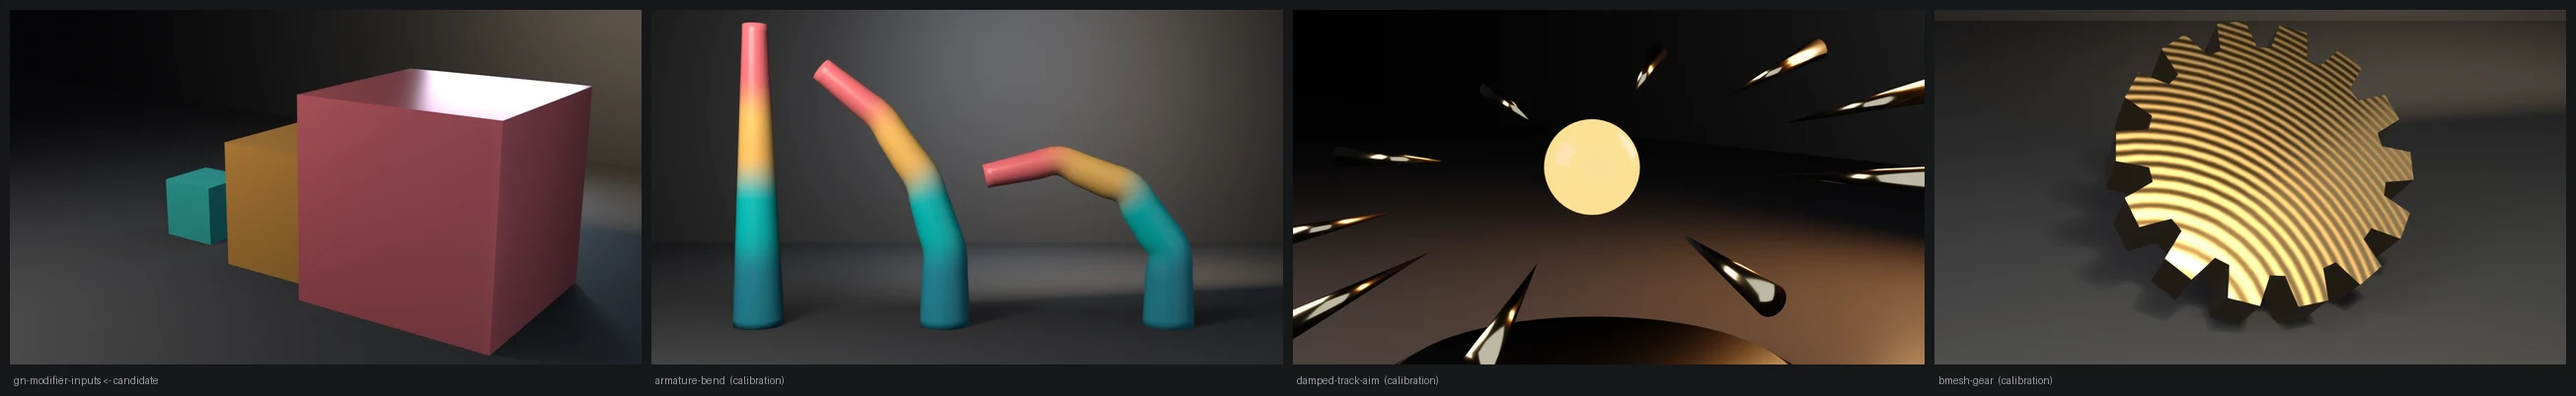
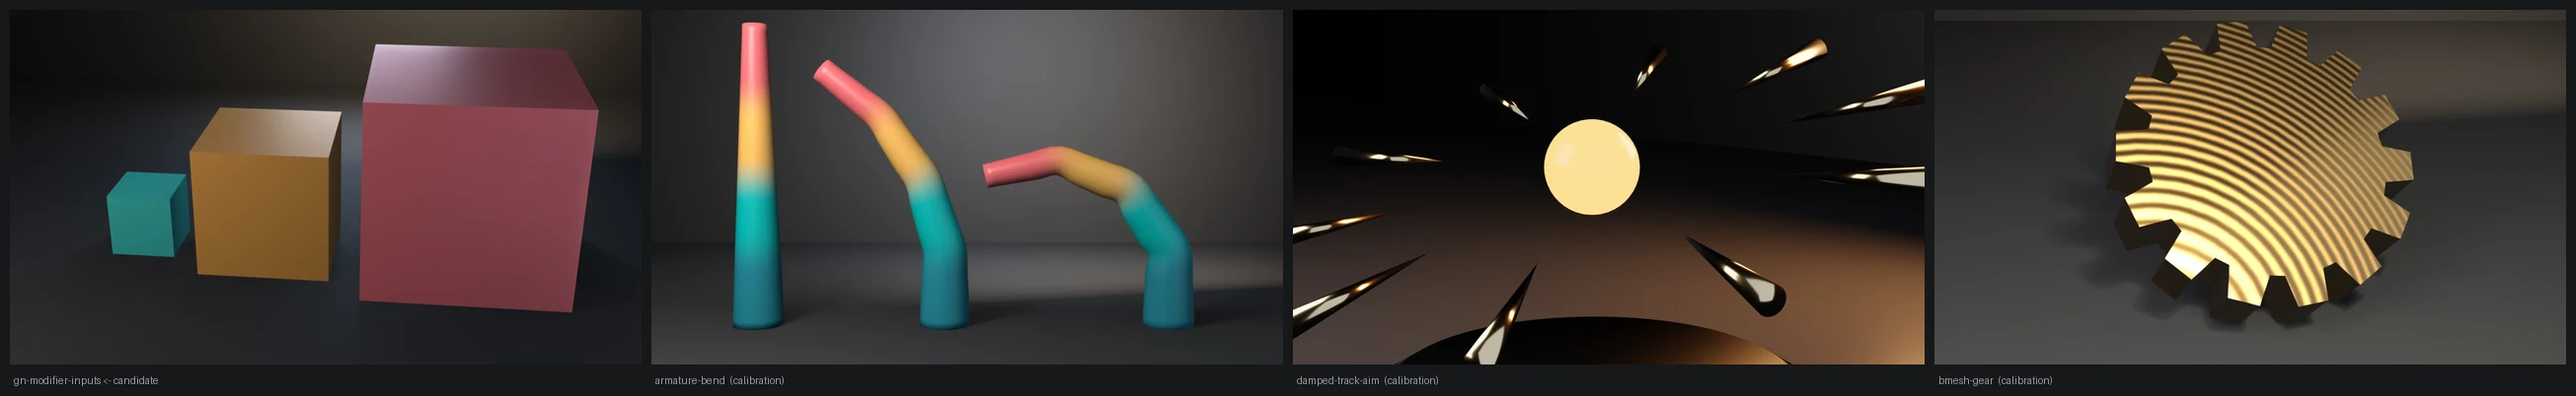
fix: gn-modifier-inputs presentation, cubes no longer interpenetrate
Layout and render only: XS overlapped the 2 m and 3 m cubes by 0.2 m; they
now stand 0.5 m apart. Frontal camera, duller finish. The check reads only
Z extents; contract and exit codes unchanged on 4.5.11, 5.1.2 and 5.2.1.
Also regenerates the gallery index for all four items.

Changed region(s): [[0.0, 0.0, 0.2483, 0.9254]]

diff --git a/docs/gallery/gn-modifier-inputs/index.html b/docs/gallery/gn-modifier-inputs/index.html
@@ -16,13 +16,13 @@
   <meta property="og:image" content="https://tmhsdigital.github.io/Blender-Developer-Tools/gallery/assets/gn-modifier-inputs-hero.webp" />
   <meta property="og:image:width" content="1280" />
   <meta property="og:image:height" content="720" />
-  <meta property="og:image:alt" content="Three boxes stepping up in size from a small teal cube to an orange block to a large red block." />
+  <meta property="og:image:alt" content="Three separate cubes stepping up in size from left to right: a small teal cube, an orange block and a large red block." />
   <meta property="og:site_name" content="Blender Developer Tools" />
   <meta name="twitter:card" content="summary_large_image" />
   <meta name="twitter:title" content="gn-modifier-inputs — Examples — Blender Developer Tools" />
   <meta name="twitter:description" content="Per-modifier Geometry Nodes Float inputs on a shared tree — 4.5/5.1 write mod[identifier], 5.2 writes mod.properties.inputs.Socket_1.value." />
   <meta name="twitter:image" content="https://tmhsdigital.github.io/Blender-Developer-Tools/gallery/assets/gn-modifier-inputs-hero.webp" />
-  <meta name="twitter:image:alt" content="Three boxes stepping up in size from a small teal cube to an orange block to a large red block." />
+  <meta name="twitter:image:alt" content="Three separate cubes stepping up in size from left to right: a small teal cube, an orange block and a large red block." />
   <style>
     /* fonts are deployed by the landing build (docs/fonts/) */
     @font-face { font-family: 'Barlow Condensed'; font-weight: 600; font-display: swap;
@@ -268,8 +268,8 @@
     <p>Per-modifier Geometry Nodes Float inputs on a shared tree — 4.5/5.1 write mod[identifier], 5.2 writes mod.properties.inputs.Socket_1.value.</p>
   </header>
   <main id="main">
-    <button class="detail-hero" id="heroZoom" type="button" aria-label="View full size: Three boxes stepping up in size from a small teal cube to an orange block to a large red block.">
-      <img src="../assets/gn-modifier-inputs-hero.webp" alt="Three boxes stepping up in size from a small teal cube to an orange block to a large red block." width="1280" height="720" />
+    <button class="detail-hero" id="heroZoom" type="button" aria-label="View full size: Three separate cubes stepping up in size from left to right: a small teal cube, an orange block and a large red block.">
+      <img src="../assets/gn-modifier-inputs-hero.webp" alt="Three separate cubes stepping up in size from left to right: a small teal cube, an orange block and a large red block." width="1280" height="720" />
     </button>
     <p class="zoom-hint">Rendered headless by the example itself — click to zoom.</p>
     <div class="callout"><span class="tag">witnesses</span> The 5.1 dict form raises TypeError on 5.2 rather than silently no-opping; RNA properties are AttributeError on 4.5. Readback and evaluated Z-extent match written scales 1/2/3.</div>
@@ -281,6 +281,7 @@
 <p>A runnable example that attaches one Geometry Nodes tree to three cubes and writes a per-modifier Float <strong>Scale</strong> input through the version-appropriate API. The tree scales a 1 m cube by that value and lifts it onto the floor. Evaluated Z-extent must match the written scale (1 / 2 / 3). That is the closed form: if the write did not land, the three cubes collapse to the socket default and the extents are no longer distinct.</p>
 <p><strong>What it witnesses:</strong> Blender 5.2 removed ID-property assignment on <code>NodesModifier</code>. <code>mod[&quot;Socket_1&quot;] = 2.0</code> raises <code>TypeError</code> rather than silently no-opping. 4.5 LTS and 5.1 still require that dict form; <code>mod.properties</code> does not exist there (<code>AttributeError</code>). 5.2+ writes <code>mod.properties.inputs.Socket_1.value</code>. After the write, the depsgraph must be updated or <code>evaluated_get</code> still sees the previous scale.</p>
 <p>Follows <a href="https://github.com/TMHSDigital/Blender-Developer-Tools/tree/main/skills/geometry-nodes-python/SKILL.md"><code>geometry-nodes-python</code></a>.</p>
+<p>Staging: the carriers now stand 0.5 m apart (<code>XS</code>). The old spacing overlapped the 2 m and 3 m cubes by 0.2 m. The check reads only each cube&#x27;s evaluated Z extent and zmin, never X, so this is layout only. The camera looks from the front, so small to large reads left to right, and a duller finish keeps the tops from blowing out.</p>
 <h2>Run</h2>
 <pre><code># Cheap correctness check (no render) — the CI check:
 blender --background --python gn_modifier_inputs.py --
@@ -346,8 +347,10 @@ sys.path.insert(
 
 CUBE_SIZE = <span class="n">1.0</span>
 SCALES = (<span class="n">1.0</span>, <span class="n">2.0</span>, <span class="n">3.0</span>)
-<span class="c"># Half-widths 0.5 / 1.0 / 1.5; keep a clear gap, keep the 3 m cube off the right edge.</span>
-XS = (-<span class="n">2.2</span>, <span class="n">0.15</span>, <span class="n">2.45</span>)
+<span class="c"># Half-widths 0.5 / 1.0 / 1.5, with 0.5 m between neighbours. The old</span>
+<span class="c"># (-2.2, 0.15, 2.45) overlapped the 2 m and 3 m cubes by 0.2 m. The check</span>
+<span class="c"># reads only Z extents, so the layout is free.</span>
+XS = (-<span class="n">2.6</span>, -<span class="n">0.6</span>, <span class="n">2.4</span>)
 COLORS = (
     (<span class="n">0.05</span>, <span class="n">0.62</span>, <span class="n">0.58</span>, <span class="n">1.0</span>),  <span class="c"># teal</span>
     (<span class="n">0.82</span>, <span class="n">0.38</span>, <span class="n">0.08</span>, <span class="n">1.0</span>),  <span class="c"># copper</span>
@@ -393,8 +396,8 @@ INPUT_NAME = <span class="s">&quot;Scale&quot;</span>
     mat.use_nodes = <span class="k">True</span>
     bsdf = mat.node_tree.nodes[<span class="s">&quot;Principled BSDF&quot;</span>]
     bsdf.inputs[<span class="s">&quot;Base Color&quot;</span>].default_value = color
-    bsdf.inputs[<span class="s">&quot;Roughness&quot;</span>].default_value = <span class="n">0.28</span>
-    bsdf.inputs[<span class="s">&quot;Metallic&quot;</span>].default_value = <span class="n">0.35</span>
+    bsdf.inputs[<span class="s">&quot;Roughness&quot;</span>].default_value = <span class="n">0.45</span>
+    bsdf.inputs[<span class="s">&quot;Metallic&quot;</span>].default_value = <span class="n">0.1</span>
     <span class="k">return</span> mat
 
 
@@ -603,7 +606,7 @@ INPUT_NAME = <span class="s">&quot;Scale&quot;</span>
     scene.world = world
 
     aim = bpy.data.objects.new(<span class="s">&quot;Aim&quot;</span>, <span class="k">None</span>)
-    aim.location = (<span class="n">0.35</span>, <span class="n">0.0</span>, <span class="n">1.25</span>)
+    aim.location = (<span class="n">0.25</span>, <span class="n">0.0</span>, <span class="n">1.1</span>)
     scene.collection.objects.link(aim)
 
     <span class="k">def</span> light(name, loc, energy, size, col):
@@ -619,7 +622,7 @@ INPUT_NAME = <span class="s">&quot;Scale&quot;</span>
         lc.track_axis = <span class="s">&quot;TRACK_NEGATIVE_Z&quot;</span>
         lc.up_axis = <span class="s">&quot;UP_Y&quot;</span>
 
-    light(<span class="s">&quot;Key&quot;</span>, (-<span class="n">3.8</span>, -<span class="n">5.0</span>, <span class="n">6.2</span>), <span class="n">560.0</span>, <span class="n">5.0</span>, (<span class="n">1.0</span>, <span class="n">0.96</span>, <span class="n">0.9</span>))
+    light(<span class="s">&quot;Key&quot;</span>, (-<span class="n">5.5</span>, -<span class="n">6.0</span>, <span class="n">5.2</span>), <span class="n">380.0</span>, <span class="n">6.0</span>, (<span class="n">1.0</span>, <span class="n">0.96</span>, <span class="n">0.9</span>))
     light(<span class="s">&quot;Fill&quot;</span>, (<span class="n">5.4</span>, -<span class="n">3.2</span>, <span class="n">2.4</span>), <span class="n">110.0</span>, <span class="n">8.0</span>, (<span class="n">0.75</span>, <span class="n">0.85</span>, <span class="n">1.0</span>))
     light(<span class="s">&quot;Rim&quot;</span>, (<span class="n">0.4</span>, <span class="n">6.4</span>, <span class="n">3.8</span>), <span class="n">280.0</span>, <span class="n">3.5</span>, (<span class="n">0.6</span>, <span class="n">0.78</span>, <span class="n">1.0</span>))
     wedge = bpy.data.lights.new(<span class="s">&quot;Wedge&quot;</span>, <span class="s">&quot;AREA&quot;</span>)
@@ -634,7 +637,7 @@ INPUT_NAME = <span class="s">&quot;Scale&quot;</span>
     cam_data = bpy.data.cameras.new(<span class="s">&quot;Cam&quot;</span>)
     cam_data.lens = <span class="n">50.0</span>
     cam = bpy.data.objects.new(<span class="s">&quot;Cam&quot;</span>, cam_data)
-    cam.location = (<span class="n">8.1</span>, -<span class="n">10.8</span>, <span class="n">5.05</span>)
+    cam.location = (<span class="n">1.6</span>, -<span class="n">12.4</span>, <span class="n">6.6</span>)
     scene.collection.objects.link(cam)
     scene.camera = cam
     track = cam.constraints.new(<span class="s">&quot;TRACK_TO&quot;</span>)
@@ -718,7 +721,7 @@ INPUT_NAME = <span class="s">&quot;Scale&quot;</span>
   </main>
   <dialog class="lightbox" id="lightbox" aria-label="Full-size render">
     <button class="lightbox-close" type="button" autofocus>Close</button>
-    <img src="../assets/gn-modifier-inputs-hero.webp" alt="Three boxes stepping up in size from a small teal cube to an orange block to a large red block." />
+    <img src="../assets/gn-modifier-inputs-hero.webp" alt="Three separate cubes stepping up in size from left to right: a small teal cube, an orange block and a large red block." />
   </dialog>
   <footer>
     <div class="statusbar">

diff --git a/docs/gallery/index.html b/docs/gallery/index.html
@@ -453,7 +453,7 @@
       </article>
       <article class="card" data-tags="geometry-nodes modifiers">
         <a class="card-media" href="gn-modifier-inputs/" tabindex="-1" aria-hidden="true">
-          <img src="assets/gn-modifier-inputs-hero.webp" alt="Three boxes stepping up in size from a small teal cube to an orange block to a large red block." loading="lazy" decoding="async" />
+          <img src="assets/gn-modifier-inputs-hero.webp" alt="Three separate cubes stepping up in size from left to right: a small teal cube, an orange block and a large red block." loading="lazy" decoding="async" />
         </a>
         <div class="card-body">
           <h2><a href="gn-modifier-inputs/">gn-modifier-inputs</a></h2>
@@ -860,7 +860,7 @@
       </article>
       <article class="card" data-tags="depsgraph export">
         <a class="card-media" href="usd-export-evaluation-mode/" tabindex="-1" aria-hidden="true">
-          <img src="assets/usd-export-evaluation-mode-hero.webp" alt="Two grey spheres: a coarse, flat-shaded one on the left and a smooth, subdivided one on the right." loading="lazy" decoding="async" />
+          <img src="assets/usd-export-evaluation-mode-hero.webp" alt="Two steel balls resting on the floor: a coarse, flat-shaded one on the left and a smooth, subdivided one on the right." loading="lazy" decoding="async" />
         </a>
         <div class="card-body">
           <h2><a href="usd-export-evaluation-mode/">usd-export-evaluation-mode</a></h2>
@@ -937,12 +937,12 @@
       </article>
       <article class="card" data-tags="mesh export showcase">
         <a class="card-media" href="campfire/" tabindex="-1" aria-hidden="true">
-          <img src="assets/campfire-hero.webp" alt="A campfire of crossed logs in a teepee inside a ring of grey stone blocks." loading="lazy" decoding="async" />
+          <img src="assets/campfire-hero.webp" alt="A campfire of crossed logs in a teepee, embers in the ash, inside a two-course ring of rounded grey fieldstones." loading="lazy" decoding="async" />
         </a>
         <div class="card-body">
           <h2><a href="campfire/">campfire</a></h2>
           <p class="teaches">A procedural campfire through UVs, bake, LOD, collider, and Unity glTF, asserting recomputed budgets rather than an API contract.</p>
-          <p class="witnesses"><span class="tag">witnesses</span> Recomputed: 2200 tris, three materials with 216 wood, 48 ash and 1304 stone faces, UVs in 0..1 with zero AABB overlap, outer AABB 0.807×0.808×0.404 m, LOD ratios in band, convex collider 198 tris, hygiene 0, 14 grounded bottom stones, teepee kiss 0.00001 m, course seat 0, non-empty glTF. --skip-decimate exits 9; --stray-vert 15; --lift-z/--short-stones 16; --float-logs 17; --gap-courses 18.</p>
+          <p class="witnesses"><span class="tag">witnesses</span> Recomputed: 2760 tris, three materials with 216 wood, 48 ash and 1416 stone faces, UVs in 0..1 with zero AABB overlap, outer AABB 0.802×0.802×0.404 m, LOD ratios in band, convex collider 162 tris, hygiene 0, 14 grounded bottom stones, teepee kiss 0.00034 m, course seat 0, stone variation 0.01269 m, non-empty glTF. --skip-decimate exits 9; --stray-vert 15; --lift-z/--short-stones 16; --float-logs 17; --gap-courses 18; --uniform-stones 20.</p>
           <a class="card-link" href="campfire/">View showcase piece<span class="sr-only"> campfire</span> <span aria-hidden="true">&rarr;</span></a>
         </div>
       </article>
@@ -1157,12 +1157,12 @@
       </article>
       <article class="card" data-tags="mesh export showcase">
         <a class="card-media" href="iron-cauldron/" tabindex="-1" aria-hidden="true">
-          <img src="assets/iron-cauldron-hero.webp" alt="A black iron cauldron hanging from a tripod of wooden poles." loading="lazy" decoding="async" />
+          <img src="assets/iron-cauldron-hero.webp" alt="A round-bellied black iron cauldron hanging by its bail from a tripod of wooden poles." loading="lazy" decoding="async" />
         </a>
         <div class="card-body">
           <h2><a href="iron-cauldron/">iron-cauldron</a></h2>
-          <p class="teaches">A procedural hanging iron cauldron with a bulged open pot, bail, and timber tripod through UVs, bake, LOD, collider, and Unity glTF, asserting recomputed budgets rather than an API contract.</p>
-          <p class="witnesses"><span class="tag">witnesses</span> Recomputed: 3664 tris, two materials with 224 wood and 1768 metal faces, UVs in 0..1 with zero AABB overlap, outer AABB 0.987×0.961×0.860 m, pot–leg clearance 0.046 m, 3 coaxial ferrules at zmin 0, ferrule bite −0.00185 m, hook-bail join 0, mesh hygiene all zero, LOD ratios in band, convex collider 250 tris, non-empty glTF. --skip-decimate exits 9; --stray-vert 15; --lift-z/--short-legs 16; --float-hook 17; --pipe-ferrule 18.</p>
+          <p class="teaches">A procedural hanging iron cauldron with a round-bellied pot, a bail threaded through flat ear rings, and a timber tripod through UVs, bake, LOD, collider, and Unity glTF, asserting recomputed budgets rather than an API contract.</p>
+          <p class="witnesses"><span class="tag">witnesses</span> Recomputed: 3664 tris, two materials with 224 wood and 1768 metal faces, UVs in 0..1 with zero AABB overlap, outer AABB 0.987×0.961×0.860 m, pot–leg clearance 0.053 m, pot base radius 0.075 m, 3 coaxial ferrules at zmin 0, ferrule bite −0.00185 m, hook-bail join 0, bail threads both ear rings, mesh hygiene all zero, LOD ratios in band, convex collider 246 tris, non-empty glTF. --skip-decimate exits 9; --stray-vert 15; --lift-z/--short-legs 16; --float-hook/--edge-on-ears 17; --pipe-ferrule 18; --pointed-pot 19.</p>
           <a class="card-link" href="iron-cauldron/">View showcase piece<span class="sr-only"> iron-cauldron</span> <span aria-hidden="true">&rarr;</span></a>
         </div>
       </article>

diff --git a/examples/gn-modifier-inputs/gn_modifier_inputs.py b/examples/gn-modifier-inputs/gn_modifier_inputs.py
@@ -36,8 +36,10 @@ import gallery_framing  # noqa: E402
 
 CUBE_SIZE = 1.0
 SCALES = (1.0, 2.0, 3.0)
-# Half-widths 0.5 / 1.0 / 1.5; keep a clear gap, keep the 3 m cube off the right edge.
-XS = (-2.2, 0.15, 2.45)
+# Half-widths 0.5 / 1.0 / 1.5, with 0.5 m between neighbours. The old
+# (-2.2, 0.15, 2.45) overlapped the 2 m and 3 m cubes by 0.2 m. The check
+# reads only Z extents, so the layout is free.
+XS = (-2.6, -0.6, 2.4)
 COLORS = (
     (0.05, 0.62, 0.58, 1.0),  # teal
     (0.82, 0.38, 0.08, 1.0),  # copper
@@ -83,8 +85,8 @@ def make_material(name, color):
     mat.use_nodes = True
     bsdf = mat.node_tree.nodes["Principled BSDF"]
     bsdf.inputs["Base Color"].default_value = color
-    bsdf.inputs["Roughness"].default_value = 0.28
-    bsdf.inputs["Metallic"].default_value = 0.35
+    bsdf.inputs["Roughness"].default_value = 0.45
+    bsdf.inputs["Metallic"].default_value = 0.1
     return mat
 
 
@@ -293,7 +295,7 @@ def render_still(objs, path, engine):
     scene.world = world
 
     aim = bpy.data.objects.new("Aim", None)
-    aim.location = (0.35, 0.0, 1.25)
+    aim.location = (0.25, 0.0, 1.1)
     scene.collection.objects.link(aim)
 
     def light(name, loc, energy, size, col):
@@ -309,7 +311,7 @@ def render_still(objs, path, engine):
         lc.track_axis = "TRACK_NEGATIVE_Z"
         lc.up_axis = "UP_Y"
 
-    light("Key", (-3.8, -5.0, 6.2), 560.0, 5.0, (1.0, 0.96, 0.9))
+    light("Key", (-5.5, -6.0, 5.2), 380.0, 6.0, (1.0, 0.96, 0.9))
     light("Fill", (5.4, -3.2, 2.4), 110.0, 8.0, (0.75, 0.85, 1.0))
     light("Rim", (0.4, 6.4, 3.8), 280.0, 3.5, (0.6, 0.78, 1.0))
     wedge = bpy.data.lights.new("Wedge", "AREA")
@@ -324,7 +326,7 @@ def render_still(objs, path, engine):
     cam_data = bpy.data.cameras.new("Cam")
     cam_data.lens = 50.0
     cam = bpy.data.objects.new("Cam", cam_data)
-    cam.location = (8.1, -10.8, 5.05)
+    cam.location = (1.6, -12.4, 6.6)
     scene.collection.objects.link(cam)
     scene.camera = cam
     track = cam.constraints.new("TRACK_TO")

diff --git a/README.md b/README.md
@@ -562,7 +562,7 @@ verts = 72, faces = 54, and `Set Material` carries the lime accent.
 </tr>
 <tr>
 <td width="46%" valign="middle">
-<a href="examples/gn-modifier-inputs/"><img src="examples/gn-modifier-inputs/preview.webp" alt="GN modifier inputs: three cubes in teal, copper, and coral scaled to 1, 2, and 3 meters by a shared Geometry Nodes tree, proving per-modifier Scale writes land on 5.2 RNA and on 4.5 dict assignment" /></a>
+<a href="examples/gn-modifier-inputs/"><img src="examples/gn-modifier-inputs/preview.webp" alt="GN modifier inputs: three separate cubes in teal, copper, and coral scaled to 1, 2, and 3 meters by a shared Geometry Nodes tree, proving per-modifier Scale writes land on 5.2 RNA and on 4.5 dict assignment" /></a>
 </td>
 <td valign="middle">
 

diff --git a/examples/gn-modifier-inputs/README.md b/examples/gn-modifier-inputs/README.md
@@ -16,6 +16,12 @@ must be updated or `evaluated_get` still sees the previous scale.
 
 Follows [`geometry-nodes-python`](../../skills/geometry-nodes-python/SKILL.md).
 
+Staging: the carriers now stand 0.5 m apart (`XS`). The old spacing
+overlapped the 2 m and 3 m cubes by 0.2 m. The check reads only each
+cube's evaluated Z extent and zmin, never X, so this is layout only. The
+camera looks from the front, so small to large reads left to right, and a
+duller finish keeps the tops from blowing out.
+
 ## Run
 
 ```bash
